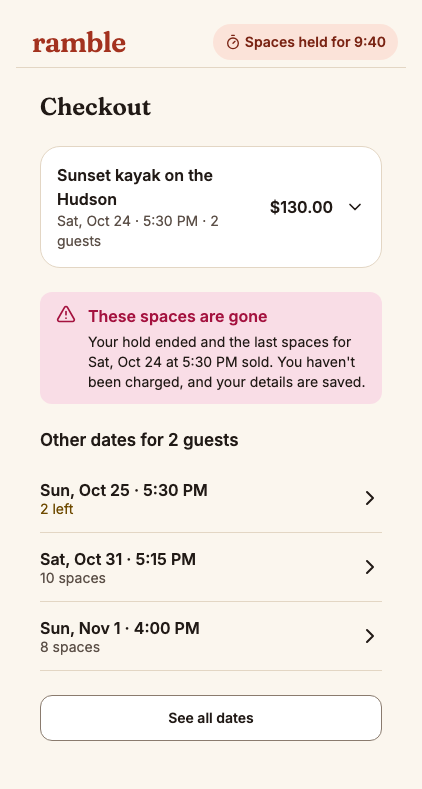
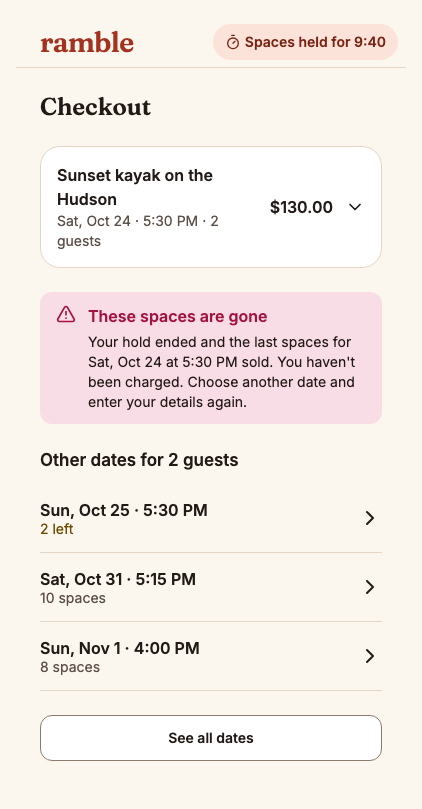
e2e-money: U-048 merged (PR 276); U-049 in review; U-047b round 2

diff --git a/drafts/u-049-checks/brief.md b/drafts/u-049-checks/brief.md
@@ -1,0 +1,22 @@
+Unit: U-049 "confirmOrder for bookings". **Critical tier, into `integration`.** **Round 1.** Branch `unit/U-049`, head `81b8171dbf64b1048860b5bec0eba0f108ae6918`, one commit on `integration` at `b2314f1b31a88ec707c002c817eaa420ce7e13fb` (built on U-048's head `70caceb`, whose tree equals `b2314f1`'s, so the PM re-parented it with an identical tree). No migration. Diff: `git -C /Users/davidfleming/Workspace/ramble diff b2314f1b31a88ec707c002c817eaa420ce7e13fb 81b8171dbf64b1048860b5bec0eba0f108ae6918` (22 files). Builder worktree (read only): `/Users/davidfleming/Workspace/ramble/.claude/worktrees/agent-a3465a771d21ce81b`.
+
+**Spec:** the pattern note `/Users/davidfleming/Workspace/ramble-pm/drafts/u-049-pattern-note.md` (its "Pattern note" section is the scope manifest; Q1 to Q4 answered as recommended, DECISIONS 2026-10-29), units.yaml U-049, design doc `docs/plan/01-design-doc.md` 4.2.3 (money rules 1 to 8, the hold and order state tables, `confirmOrder` steps 1 to 5, Transfers, the ledger postings table and worked example, the capability-token amendment). OUT OF SCOPE: the refund path's writes (U-109), refund execution (U-056), transfer release (U-079a), the confirmation page (U-050), gift and exchange branches, analytics, UI, `docs/plan/`, `.github/`, `.claude/`.
+
+**Builder's calls to judge (accepted by the PM unless they contradict the design doc or the note):**
+1. No hold transition function existed; added `holdTransitions` and `requireHoldTransition` in `src/lib/holds.ts` from the design doc table, plus `released: ['converted']` for a lapsed hold the upkeep already released (clearing `released_reason` and `superseded_by` on that move for the hold CHECKs). Is `released -> converted` consistent with the design doc (a payment after release "still lands through confirmOrder") and rule 3 (terminal states)?
+2. Only the `sessions_seats_sold_within_allocation` CHECK counts as sold out; any other 23514 rethrows (`isSeatsSoldRefusal` walks Drizzle's `cause` chain).
+3. `postProviderFee({ providerPaymentId, feeMinor, orderId, hostId, paymentAttemptId, simulated, at })` in `src/server/db/ledger.ts` over a pure `providerFeeEntries`; fee 0 or null posts nothing.
+4. `simulated` true when the attempt's provider is `fake` (`isSimulatedPayment`); ledger `occurredAt` and `confirmed_at` use `input.now` (database time from the caller).
+5. Decision order: already confirmed, not-built (gift purchase; zero due or any gift applied), currency, amount, booking rules. A partly gift-paid booking routes to the not-built zero-due branch.
+6. `exchange` is in the not-built union but nothing on `orders` identifies an exchange yet, so it is never returned.
+7. `bookingEmailKey` in `src/lib/bookingEmails.ts` shared by the job dedupe keys and U-054's email idempotency keys (same strings).
+8. `confirmOrder` reads session and hold with plain SELECTs under the caller's locks (no re-lock).
+9. Tag invalidation runs inside the caller's transaction (`revalidateTagsForChanges`), so a later rollback could leave a spurious invalidation.
+10. U-048 changes forced by the seam: `afterConfirm` accepts `already_confirmed` (finish), one test row; U-048's db tests inject explicit seams. `processProviderEvent` untouched. A stale `TODO(U-049)` on `paidAfterLapseData` retargeted to `TODO(U-109)`; Q2's TODO names `U-086`.
+11. Refund-path cases (including the CHECK refusal) answer `unavailable` through the `TakeRefundPath` seam (`src/server/db/refundPath.ts`, `TODO(U-109)`), so U-048 keeps retrying; `payment-amount-mismatch` (key `order:<id>`) alerts only on amount and currency reasons.
+
+Builder's gates: 5874 unit, 1528 db with `--maxWorkers=2` (31 files; 22 new in `tests/db/confirm-order.db.test.ts`), 163 e2e, build, db:check, db:generate no changes, knip, format, lint, typecheck; a mutation removing the session lock from U-048's `lockOrderRows` failed the locked race test. Tests include the end-to-end through the webhook route and `drainJobs` (order confirmed, fee posted, guest email in the dev mailbox), a retried event confirming after the old seam, two successes confirming once, and six rounds of `reserveSpaces` racing a confirm for the last seat never overselling. PM gitleaks over `origin/integration..81b8171`: clean.
+
+**Load:** run db tests with `pnpm exec vitest run --project db --maxWorkers=2`; 53300 is the environment, rerun. e2e needs the sandbox off and the lock. qa-agent: drive a signed `payment.succeeded` through the real route and drain on a seeded booking and check every row the note lists (seat count, hold converted, order confirmed with `confirmed_at` and a manage hash matching `capabilityToken('manage', id, version)`, the `bookingPaid` and fee ledger rows and the worked example's balances to the cent, one scheduled transfer with `release_after` = session end + 24 h, the two email jobs and the dev-mailbox guest email); replay the event (nothing new); a lapsed hold with room and one without (refund path answers `unavailable`, the event keeps retrying); an amount mismatch (one alert); mutate the session lock, the already-confirmed stop and the seat-count update.
+
+Rules: `/Users/davidfleming/Workspace/ramble-pm/drafts/wave3-review-rules.md`. **Never run `git checkout`, `git switch`, `git reset`, `git merge`, or any write in `/Users/davidfleming/Workspace/ramble` or any existing worktree.** Scratch copy only, in a directory no other agent uses, and remove only your own directory (never a glob): `mkdir -p $TMPDIR/u049-$RANDOM`, `git -C /Users/davidfleming/Workspace/ramble archive 81b8171dbf64b1048860b5bec0eba0f108ae6918 | tar -x -C <that dir>`, then `pnpm install`. Postgres on 127.0.0.1:5432 (user and password `ramble`), with `dangerouslyDisableSandbox: true`. Never push or call GitHub. Your final message is the verdict (PASS or FAIL first line, header `## <check name>: U-049 "confirmOrder" (head 81b8171)`), nothing else.

diff --git a/drafts/u-047b-checks/brief-r2.md b/drafts/u-047b-checks/brief-r2.md
@@ -1,0 +1,22 @@
+Unit: U-047b "Checkout page". **Standard tier, PR into `integration`.** **Round 2.** Round 1 at `60bb5a1cbc031e4f49108ec91f394f480e3f02f7`: spec and a11y PASS; architecture, review and QA FAIL. Read your round 1 verdict first: `/Users/davidfleming/Workspace/ramble-pm/drafts/u-047b-checks/r1-<check>.md` (`r1-review`, `r1-arch`, `r1-spec`, `r1-qa`, `r1-a11y`); the round 1 `brief.md` beside it has the spec and PM rulings.
+
+Head `8c8d1bb45aa705ced8d2e0aeeb10fdb8e897fa21` on `unit/U-047b`, **one squashed commit on `integration` at `b2314f1b31a88ec707c002c817eaa420ce7e13fb`** (U-014b and U-048 have landed since round 1; the PM squashed because CI gitleaks scans every PR commit; the tree equals the builder's head `ff1c80b`, which was round 2 fixes `12d6e7d` plus a clean merge of `b2314f1` and one test commit). Diff: `git -C /Users/davidfleming/Workspace/ramble diff b2314f1b31a88ec707c002c817eaa420ce7e13fb 8c8d1bb45aa705ced8d2e0aeeb10fdb8e897fa21` (63 files). Round 2 delta on the old base: `git -C /Users/davidfleming/Workspace/ramble diff 60bb5a1cbc031e4f49108ec91f394f480e3f02f7 12d6e7d591239fbb8bb0e8c163a4edbf66a65ac4`.
+
+Builder's round 2 changes:
+1. Re-hold: `reholdSpaces` refuses unless the caller's hold is `active` and past expiry on the database clock (`isLapsedHold` in `src/lib/holds.ts`); `paying`, live, other-device, missing and malformed all answer `unbookableSession`. New `src/server/db/rehold.ts` `claimLapsedHold` takes the session and hold locks, re-reads the clock and releases the hold (`expired`) in its own transaction, then `reserveSpaces` runs. **Deviation:** not one transaction (`reserveSpaces` opens its own); if the reserve fails the old lapsed hold stays released. New `tests/db/rehold.db.test.ts`: live, paying, twice, two concurrent calls (exactly one `held`), limit consumed and `blocked` when spent, limiter outage fails closed; after the merge, a device with one live and one lapsed hold on a session re-holds the lapsed one and ends with exactly one open hold (U-014b's supersede releases the live one).
+2. Header: the `HoldTimer` pill shrinks and wraps (`HoldTimer.module.css`); story `LongTimerAt320` with "59:59" (axe `color-contrast` off for that story only).
+3. B17: `childCount` reused; zone labels in `src/lib/zonedLabels.ts` (`zonedShortDayLabel`, `zonedClockLabel`, `zonedDeadlineNoZoneLabel`); `holdDeadline`, `isCheckoutHold` in `src/lib/holds.ts`; `ageRequirements` in `src/lib/checkout.ts`; `cancellationLine` calls `cancellationTermsLabel` (the closed-window text is now the email's wording).
+4. B8: `useMinWidth` deleted; the summary opens by default from 768 px by CSS. **Deviation:** the toggle stays in the DOM there, mouse-inert, with `aria-expanded="false"` while the panel shows (a shared `OrderSummary` change would fix it).
+5. B16: `var(--size-touch-target)`.
+6. Focus: the payment panel (`role="group"` named Payment) and the S6, S7, too-many-tries panels take focus on step change; a server `invalid` focuses the first invalid field; `role="status"` "Getting your payment ready"; one Payment heading.
+7. `tests/checkout-no-sentry.test.ts` holds `src/server/env.ts` to the host patterns, exempting only the `SENTRY_BROWSER_DSN` name.
+8. `errorMessage(errors, ...keys)` in `src/lib/pages/checkoutForm.ts`.
+9. S7 copy: "You haven't been charged. Choose another date and enter your details again."
+
+Judge the head as the PR that ships: each of your round 1 findings is fixed; judge both deviations (is the two-transaction re-hold safe: can it lose a guest anything a lapsed hold still held, can it be raced into two holds; is a desktop toggle reading "collapsed" over a visible panel a WCAG 4.1.2 failure that must be fixed now); the merge lost nothing from integration (`git diff b2314f1 8c8d1bb -- src/server/db/migrations` is empty); nothing new is out of scope.
+
+Builder gates on the tree: 5942 unit (228 files), 1524 db with `--maxWorkers=2` (32 files), 163 e2e (unsandboxed through the lock), 225 storybook tests (37 files), build, db:check, db:generate no new file, knip, format, lint, typecheck. PM gitleaks over `origin/integration..8c8d1bb`: clean. Evidence: `/Users/davidfleming/Workspace/ramble-pm/evidence/pr/unit-U-047b/` (new: `header-320-*-after.png`, `header-390-*-after.png`, refreshed `checkout-390-*`, `checkout-1280-*`, `s7-sold-out-390-light-after.png`).
+
+**Load:** run db tests with `pnpm exec vitest run --project db --maxWorkers=2`; 53300 is the environment, rerun. e2e and Storybook need the sandbox off and e2e the lock: `lockf -k /private/tmp/claude-501/ramble-wave3-e2e.lock env CI=1 pnpm e2e`. qa-agent: in a seeded production build, recheck the header at 320, 360 and 390 px with a 14:xx and a 59:xx timer (no sideways scroll), replay `reholdSpaces` on a live hold and on one lapsed hold 12 times (one hold at most), the focus moves on each step change, the S7 copy, and the summary at 768 and 1280 with JS on and off. a11y-audit: the focus moves, the status message, and the desktop toggle state.
+
+Rules: `/Users/davidfleming/Workspace/ramble-pm/drafts/wave3-review-rules.md`. **Never run `git checkout`, `git switch`, `git reset`, `git merge`, or any write in `/Users/davidfleming/Workspace/ramble` or any existing worktree.** Scratch copy only, in a directory no other agent uses, and remove only your own directory (never a glob): `mkdir -p $TMPDIR/u047br2-$RANDOM`, `git -C /Users/davidfleming/Workspace/ramble archive 8c8d1bb45aa705ced8d2e0aeeb10fdb8e897fa21 | tar -x -C <that dir>`, then `pnpm install`. Postgres on 127.0.0.1:5432 (user and password `ramble`), with `dangerouslyDisableSandbox: true`. Write screenshots only to `/Users/davidfleming/Workspace/ramble-pm/evidence/pr/unit-U-047b-qa-agent/`. Never push or call GitHub. Your final message is the verdict (PASS or FAIL first line, header `## <check name>: U-047b round 2 (head 8c8d1bb)`), nothing else.

diff --git a/STATUS.md b/STATUS.md
@@ -82,6 +82,7 @@ Several PM chats run at once. Each works one lane and writes only its own parts 
 - **2026-10-29 12:10, opened by the lead, not started.** Scope: the clear fixes across the three audit files that the `src/lib` refactor does not absorb. Home (`audits/home-2026-10-28.md`): every row whose status is `open` except the DRY items the refactor takes (H-2, H-25, H-43, H-44, H-45, H-51, H-52, H-57, H-58, H-59, H-60, H-61, H-62, H-63, H-69, H-76 to H-79) and the owner decisions (the lead brings those to Dave as one recommendations doc). Browse and experience: BE-13, BE-8, BE-7, BE-14, BE-1 (marked fix, in that order). Nightly: N1029-1 (high: seed guard lets a production Neon URL through), N1029-2 (H-19 partial), N1029-3, 4, 5, 6, 7, 10, 11. Group by file into small PRs, each with before-and-after evidence. Shares the five-builder limit with `e2e-money`: two builders until the lead says otherwise.
 
 ### Lane: e2e-money
+- **2026-10-29 20:11, U-048 merged; U-049 built and in review; U-047b round 2 nearly done.** (1) **U-048 merged into `integration`** (PR 276, `b2314f1`); Done on board #19 with actuals (1.0 day against 1.5 / 3 / 6); worktree removed (`unit/U-048` kept locally until U-049 lands). `integration` now holds U-005, U-019, U-045b, U-015, U-014a, U-054, U-016, U-047a, U-014b, U-048: promotion to `main` is Dave's call (no guest-visible change until U-047b). (2) **U-049** (`confirmOrder`) built in about 17 minutes: `confirmDecision` in lib, the booking confirm (seats, hold converted, order confirmed, manage hash, `bookingPaid` and the card fee, a scheduled transfer, two email jobs), the refund path behind a U-109 seam, not-built gift and exchange stubs, 22 db tests including the end-to-end through the webhook route and a last-seat race; re-parented onto `b2314f1` with an identical tree as `81b8171`; four round 1 checks running (`drafts/u-049-checks/brief.md`). (3) **U-047b** round 2 at `8c8d1bb` (squashed on `b2314f1`): spec and architecture PASS; review and a11y FAIL on one item (the desktop summary toggle reads collapsed over a visible panel, WCAG 4.1.2); QA running; round 3 moves the 768 px behaviour into `OrderSummary`. PM ruling: the two-transaction re-hold is accepted (BC-24).
 - **2026-10-29 19:56, U-048 PR 276 open; U-049 building; U-047b round 2.** (1) **U-048** (webhook intake) merged `integration` `16231c0` (one `locks.ts` header with the address lock); round 3 merge re-check, all four PASS (QA: full db suite 1,506, a signed success through the route schedules its retry). PR 276 into `integration`, checks posted, auto-merge queued. (2) **U-049** (`confirmOrder`) pattern note written (`drafts/u-049-pattern-note.md`; Q1 refund path behind a U-109 seam answering `unavailable`, Q2 no `booking_confirmed` write yet, Q3 a null fee posts nothing, Q4 return shape matches U-048's `afterConfirm`; DECISIONS); builder launched on `unit/U-049` cut from U-048's head `70caceb`; In Progress on board #19. (3) **U-047b** round 2 with its builder. Path to Monday: U-049 confirms; U-050 (confirmation page) and U-041 (booking bar) remain after it.
 - **2026-10-29 19:48, U-014b merged; U-048 merging; U-047b round 2.** (1) **U-014b merged into `integration`** (PR 274, `16231c0`); Done on board #19 with actuals (0.7 days against 1 / 2 / 4.5); worktree removed. (2) **U-048** merging `16231c0` (one `locks.ts` header with the address lock), then a focused re-check and its PR. (3) **U-047b** round 1 complete at `60bb5a1`: spec and a11y PASS; architecture, review and QA FAIL. Blocking: `reholdSpaces` re-held a live hold (QA: 12 replays gave 12 active holds, with no bot check), the header timer overflows at 320 px once it reads 10:00 or more, B17 duplicates and shared rules in the page module, `useMinWidth` off the B8 allowlist, literal 44px. Round 2 sent with those plus focus on step change and a narrower ADR 0007 test exemption. Figma: only the lo-fi `05 Checkout` desktop frame exists (no D05 or state frames); eight unrecorded differences logged for Dave as BC-22.
 - **2026-10-29 19:34, U-014b PR 274 open; U-048 passed; U-047b in review.** (1) **U-014b** (hold rules) round 2 at `27d326b`, all four PASS (QA: the cross-session test fails without the address lock, a 233-hold pulse cleanup and an exact 30-day scrub, 19 migrations from zero). PR 274 into `integration`, checks posted, auto-merge queued; migration `0018_hold_limit_indexes`. (2) **U-048** (webhook intake) round 2 at `6de1064`, all four PASS (QA drove the real route: a stranded success retries, gives up at exactly 25 with one alert, and a working seam confirms it; six mutations killed). It lands after PR 274: one more merge to reconcile the `locks.ts` header (U-014b's address lock), then a focused re-check. (3) **U-047b** (checkout page) round 1 at `60bb5a1` (squashed, plus removal of a stale U-047a migration copy the merge left): spec and a11y PASS; architecture FAIL (B17 duplicates of `childCount` and the zoned labels, shared rules sitting in the page module, `useMinWidth` off the B8 allowlist, a literal 44px); review and QA (with the Figma comparison) running; round 2 goes out with all findings together.

diff --git a/delta-log.md b/delta-log.md
@@ -74,3 +74,4 @@ Where reality departs from the frozen plan (`plan-frozen-2026-10-20`). One line 
 | 2026-10-29 | U-014b design departures (e2e-money lane, in review) | Two departures from design doc 4.2.3, kept on review (same outcome, no deadlock found): (1) `reserveSpaces` reads the supersede candidates first, runs the block, seat-limit and spaces-left checks with those seats counted free, inserts the new hold, and only then marks the old ones superseded; the doc orders supersede first. A refusal at any step writes nothing either way. (2) A client-address advisory lock sits between the device lock and the session row (device, address, session, hold, order, gift), because the seat limit and the lapse block count a device and its address together (PM ruling). Recorded here because the plan is frozen. | Design doc lock order and step order to be read with this row. |
 | 2026-10-29 | U-047a startPayment action (e2e-money lane, closed) | Merged into `integration` as PR 271 (`99d4c8f`, squash) on 2026-10-29 19:10 EDT. Actual 0.8 days (builder launch about 16:15 to merge, agent wall clock) against 2 / 4 / 8; 0 owner minutes; about 2.1M tokens (builder over three rounds plus twelve checks; round 1 check tokens estimated). Human-led in the plan; built by an agent under a pattern note (DECISIONS). Three rounds: round 1 found the attempt lock taken outside `locks.ts` and four B2 decisions in the action and data layer; round 2 moved the orchestration into `src/server/checkout.ts`; round 3 merged `integration` (U-054, U-016), renumbered the foreign-key migration to `0017`, and gave U-054's and U-016's test orders real parents. | Under the estimate by about 80%: the pattern note fixed the design before the build. |
 | 2026-10-29 | U-014b Hold rules and upkeep (e2e-money lane from 16:30, closed) | Merged into `integration` as PR 274 (`16231c0`, squash) on 2026-10-29 19:55 EDT. Actual 0.7 days (builder launch about 17:45 to merge, agent wall clock) against 1 / 2 / 4.5; 0 owner minutes; about 1.9M tokens (builder over two rounds and two merges plus eight checks). Two rounds: round 1 found one export used only by tests and a release split in the data layer, and QA showed the race test could not tell whether the address lock existed (12 devices on one address across 12 sessions held 10 seats without it); round 2 fixed both and added a cross-session test, then merged `integration` twice (U-047a; the PR 241 main sync) and renumbered the migration to `0018`. An early e2e failure was the sandbox blocking Chromium, not the diff. | Under the estimate by over 60%. Two design-doc departures recorded above. |
+| 2026-10-29 | U-048 Webhook intake and the event table (e2e-money lane from 16:30, closed) | Merged into `integration` as PR 276 (`b2314f1`, squash) on 2026-10-29 20:10 EDT. Actual 1.0 day (builder launch about 16:45 to merge, agent wall clock) against 1.5 / 3 / 6; 0 owner minutes; about 2.6M tokens (builder over two rounds and three merges plus twelve checks). Human-led in the plan; built by an agent under a pattern note (DECISIONS). Three rounds: round 1 found ten B2 decisions in the route, job and data layer, a provider call inside the job's transaction, no test of the post-lock re-read, and that a success would be stranded while `confirmOrder` is a stub (PM ruling: it re-enqueues itself with backoff and gives up with one alert at 25); round 2 fixed all of it with a `prepare` hook on the job registry; round 3 merged `integration` twice (U-047a and the main sync; U-014b) and reconciled `lockOrderRow` with U-047a's. | Under the estimate by about 65%. |

diff --git a/DECISIONS.md b/DECISIONS.md
@@ -188,3 +188,4 @@ Choices kept for speed that later work may need to undo. Each is cheap now and c
 
 - **2026-10-29, deployment-cap change opened (lead lane):** PR 275 (`unit/U-001-deploy-config`, `ee446cd`) carries the `git.deploymentEnabled` change; a companion workflow change (`unit/U-001-neon-skip`, `f548962`) must merge first and needs Dave's login because `.github/` is protected. Review caught a regression the other checks could not see: the `expire preview branch` job fails on every PR that no longer gets a preview. Spec-compliance failed the runbook four times on one clause (unmarked statements about Vercel's behaviour); the cause was the runbook documenting behaviour Vercel's docs do not state, fixed by marking or citing each sentence, and by giving the spec check an explicit rule for what counts as a sourced repo fact. Process lesson for the PM: when a check keeps failing on the same clause, sweep the whole class in one round and state the rule to the checker, as done in the last two rounds. The quota effect of a disabled branch is still unverified; measure after merge.
 - **2026-10-29, e2e-money lane, U-049 pattern note goes ahead on the PM's recommendations (Dave can overrule):** `drafts/u-049-pattern-note.md`. Q1: the refund path stays U-109's behind a typed seam that answers `unavailable`, so U-048 keeps retrying refund-path successes; Q2: no `booking_confirmed` write until a funnel-events unit exists (backlog item); Q3: a `null` provider fee posts nothing and does not fail the confirm; Q4: `confirmOrder` returns `confirmed`, `already_confirmed` or `unavailable` with the reference, matching U-048's `afterConfirm`.
+- **2026-10-29, e2e-money lane, PM ruling on U-047b round 2 (Dave can overrule):** the two-transaction re-hold (release the lapsed hold, then `reserveSpaces`) is accepted: review and architecture found it loses the guest nothing and cannot race into two holds (BC-24). The desktop summary toggle's wrong `aria-expanded` is fixed now in the shared `OrderSummary` (it owns the 768 px open-by-default behaviour and hides its toggle there), which also removes the checkout stylesheet reaching into another component's markup.

diff --git a/drafts/u-047b-checks/r2-arch.md b/drafts/u-047b-checks/r2-arch.md
@@ -1,0 +1,9 @@
+PASS
+
+## architecture-audit: U-047b round 2 (head 8c8d1bb)
+
+Read `b2314f1..8c8d1bb`. Round 1 all fixed: `childCount` reused (`src/lib/checkout.ts:139`); zone labels gone from `time.ts`, `zonedShortDayLabel`, `zonedClockLabel`, `zonedDeadlineNoZoneLabel` in `zonedLabels.ts:64-74` with tests; `holdDeadline`, `isCheckoutHold` (and `isLapsedHold`) in `src/lib/holds.ts:225,232`; `cancellationLine` calls `cancellationTermsLabel` (`checkoutPage.ts:122`); `ageRequirements` in `src/lib/checkout.ts:197`; `useMinWidth` deleted, CSS media query at 768 px; `useHoldCountdown` is a named allowlist hook; `var(--size-touch-target)` (`CheckoutPage.module.css:83,146`); sentry test tightened; `errorMessage` in `checkoutForm.ts:233`; migrations match integration; only `CheckoutPage.tsx` and `useHoldCountdown.ts` are client files; scope clean.
+Blocking: none.
+Deviation 1 (two-transaction re-hold) safe: releasing an active hold past expiry loses nothing (it takes no space; the sweep would do the same); no race into two holds (session then hold lock, clock re-read; a second call finds it released; `reserveSpaces` serializes per device and supersedes); residual on a failed reserve is the S6 state anyway; a B9 borderline in letter, log it as accepted.
+Deviation 2 (desktop toggle) not an architecture blocker but fix now: `pointer-events: none` does not stop keyboard focus or activation (4.1.2); the clean fix is a small shared `OrderSummary` change (the allowlist entry covers its expanded state).
+Advisory: `CheckoutPage.module.css` (~186-191) styles `.summary div[hidden]` and `.summary button[aria-controls]` inside another component's DOM (moving the 768 px behaviour into `OrderSummary` removes the coupling); literals `outline-offset: 2px`, `minmax(8rem, ...)`, `22rem`; A2 whole `view` to the island; one island fits the allowlist's spirit; `readDevice` no cookie; `readCheckoutView` B6.

diff --git a/drafts/u-047b-checks/r2-a11y.md b/drafts/u-047b-checks/r2-a11y.md
@@ -1,0 +1,11 @@
+FAIL
+
+## a11y-audit: U-047b round 2 (head 8c8d1bb)
+
+Static audit of the head tree.
+### Blocking
+- Desktop summary toggle reports the wrong state (WCAG 4.1.2, A): the `<button aria-expanded={expanded} aria-controls>` (`src/components/OrderSummary/OrderSummary.tsx:113`) gets `expanded={summaryOpen}` (starts false); from 768 px `CheckoutPage.module.css:184-192` forces the panel visible and only sets `pointer-events: none` on the button. It stays in the tab order and the tree reading "collapsed" over a shown panel; Enter or Space flips it to "true" and "Hide" with nothing changing on screen. Fix (local): from 768 px `.summary button[aria-controls] { display: none; }`, after checking the panel body carries the title and total the toggle shows (otherwise render them in the panel, or change the shared `OrderSummary`).
+### Verified fixed
+Focus on step change (`CheckoutPage.tsx:109-111`; payment panel `:470-476` `tabIndex={-1} role="group" aria-label="Payment"`; S6, S7, too-many-tries panels `:500`, `:520`, `:563`); server `invalid` focuses the first invalid field (`focusFirstInvalid` `:116-123`); persistent `role="status"` (`:251`) changes to "Getting your payment ready"; one Payment heading; header pill wraps, `LongTimerAt320` exists (its contrast check is off, so the 59:59 pill contrast at 320 needs a manual look).
+### Advisory
+After a successful re-hold focus drops to the document start (the `step.step !== 'details'` guard skips it); focus the h1 or the form. Maintenance has no next link. Hold timeout under the essential-time exception.

diff --git a/drafts/u-047b-checks/r2-review.md b/drafts/u-047b-checks/r2-review.md
@@ -1,0 +1,13 @@
+FAIL
+
+## review-agent: U-047b round 2 (head 8c8d1bb)
+
+Read the diff and server paths; migrations diff against b2314f1 empty.
+### Blocking
+- Desktop toggle (`CheckoutPage.module.css:190-192`, `OrderSummary.tsx:113`), WCAG 4.1.2: from 768 px the panel is forced visible (`.summary div[hidden]{display:flex}`) while the toggle stays in the tab order and tree with `aria-expanded="false"`; Enter/Space flips it to true with no visible change. Fix locally: at `min-width:768px` `.summary button[aria-controls]{display:none}` instead of `pointer-events:none`; a story or test that the toggle is not exposed at 1280 px. No shared change needed.
+### Round 1 findings
+Re-hold fixed (`claimLapsedHold` accepts only the device's `active` booking hold past expiry on the database clock, `src/server/db/rehold.ts:37-49`, `isLapsedHold` `src/lib/holds.ts:241`; others `unbookableSession`; limiter consumed first, outage fails closed; `'human'` verdict documented per ADR 0007). Test gaps closed (`tests/db/rehold.db.test.ts`). `env.ts` exemption narrowed.
+### Deviation 1 acceptable
+A lapsed hold takes no seats, so releasing it first frees nothing it kept; a failed reserve loses the guest nothing usable; it cannot race into two holds (session then hold lock, re-judged at database time; supersede leaves one open hold); party from the hold's own lines.
+Non-blocking: `?t=` token in history and logs (BC-20). B17 items in place; only `TODO(U-086)` added.
+Unconfirmed: check no other copy still says details are saved.

diff --git a/audits/booking-checkout.md b/audits/booking-checkout.md
@@ -29,3 +29,4 @@
 | BC-21 | `startPayment` does not refuse when `checkoutMaintenance` is on; only the page hides the form. | Architecture | U-047b builder | open |
 | BC-22 | Checkout differs from Figma 05 beyond the recorded two-tap departure: the hold timer is a header pill, not a summary "Spots held" banner; no "Back to cart" link; "Secure checkout" only on desktop; the full site footer instead of the mini footer (Help, Privacy); no sign-in nudge; no dietary or swim question; no service-fee line; a single lead name rather than a guest list. Figma has no D05, S6, S7 or S9 frames yet ("error states still to design"). Each needs an owner call: record as a departure or build. | Visual | U-047b QA | open (owner) |
 | BC-23 | The shared footer "Terms" link is 41x44 px, under the 44 px target. | Accessibility | U-047b QA | open |
+| BC-24 | `reholdSpaces` releases the lapsed hold and reserves the new one in two transactions (B9 in letter): a failed reserve leaves the guest at S6 with the old hold released. Accepted on review (a lapsed hold holds no space; no race into two holds). Fold into one transaction if `reserveSpaces` ever takes a caller's transaction. | Architecture | U-047b round 2 | won't (accepted, DECISIONS 2026-10-29) |

diff --git a/drafts/u-047b-checks/r2-spec.md b/drafts/u-047b-checks/r2-spec.md
@@ -1,0 +1,6 @@
+PASS
+
+## spec-compliance: U-047b round 2 (head 8c8d1bb)
+
+Static check of `b2314f1..8c8d1bb` (63 files). All 12 scope-line clauses still met: contact and unticked opt-in (`checkoutForm.ts:36`); age and guardian via `ageRequirements` (`CheckoutPage.tsx:113`); waiver, terms, validation; `HoldTimer` in the island header (`:202`); order summary (`:208`); express area and card island with `startPayment` only from submit (`:138`); demo notice and maintenance; success to `/orders/<ref>?t=<token>` (`:240`, `:480`). Stray `0014_order_parent_foreign_keys.sql` gone; `git diff b2314f1 8c8d1bb -- src/server/db/migrations` empty. Round 2: `isLapsedHold` refusal (`src/server/db/rehold.ts:47`), `claimLapsedHold`, `tests/db/rehold.db.test.ts`; S7 copy exact (`checkoutFlow.ts:267`, test `:329`); B17 helpers moved; `useMinWidth` gone; sentry test and `errorMessage` present; `HoldTimer.module.css` and `LongTimerAt320`. Scope bounds kept (edits outside checkout only remove `TODO(U-047b)` in `Header`, `HoldTimer`, `OrderSummary`; the `(site)` move; `routes.ts` helper; `bookingEmails.ts` 6 lines for the shared label). Neither deviation fails a clause (race safety for review and QA; the toggle for a11y).
+Blocking: none.
